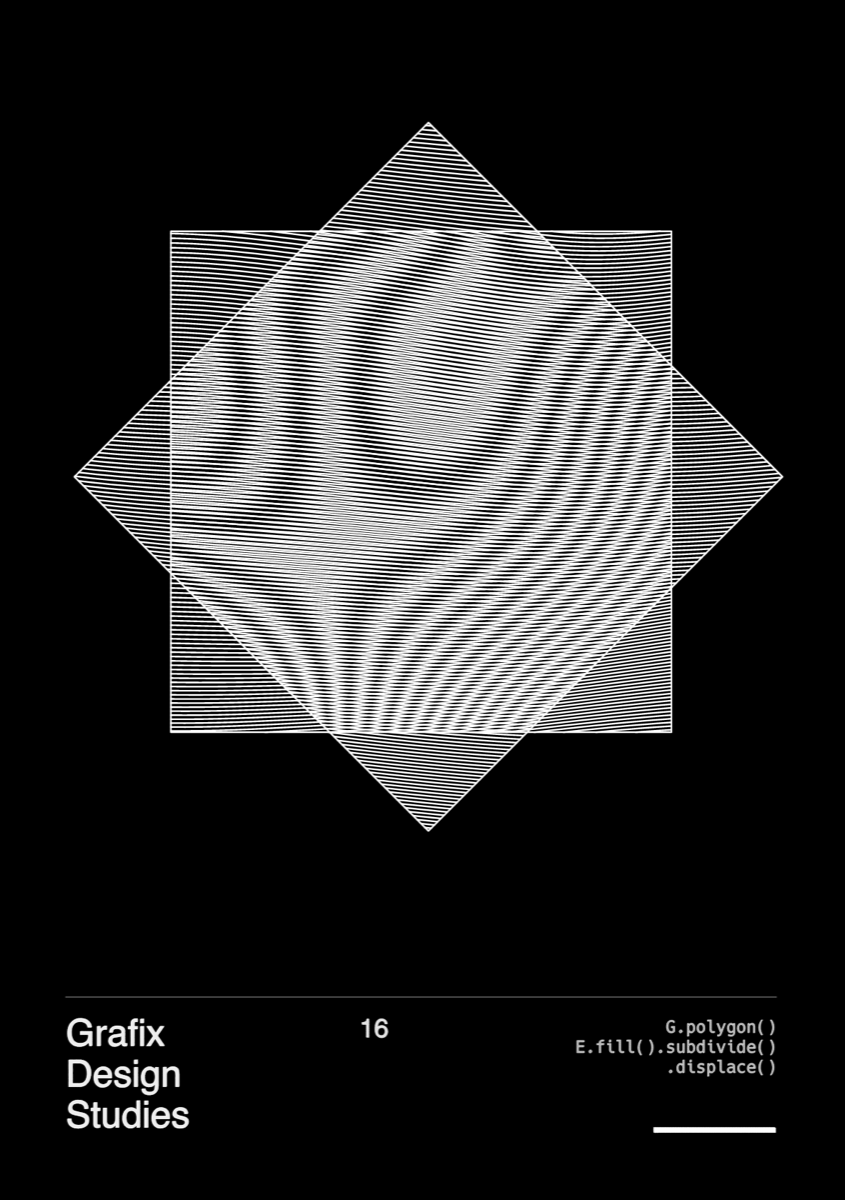
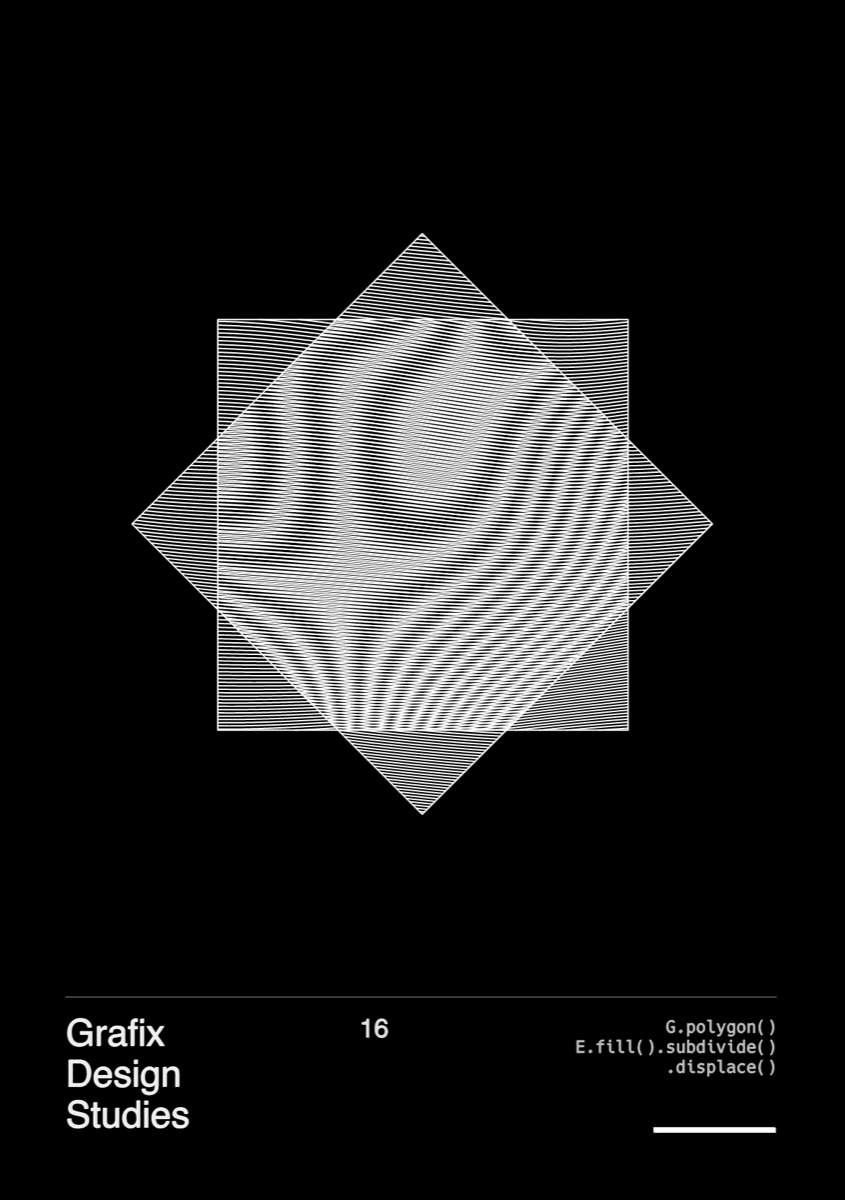
📝

Changed region(s): [[0.0923, 0.0925, 0.9231, 0.7092]]

diff --git a/sketch/readme/grn/16.py b/sketch/readme/grn/16.py
@@ -12,8 +12,8 @@ def draw(t):
     frame = P.grn_a5_frame(number_text=str(Path(__file__).stem))
     f1 = P.flow(
         activate=True,
-        center=(24.8, 34.963, 0.0),
-        scale=(2.48, 2.48, 1.0),
+        center=(24.8, 42.308, 0.0),
+        scale=(2.033, 2.033, 1.0),
         fill_density_coef=0.811,
         fill_angle=0.0,
         subdivide_levels=6,
@@ -23,8 +23,8 @@ def draw(t):
 
     f2 = P.flow(
         activate=True,
-        center=(24.8, 34.963, 0.0),
-        scale=(2.48, 2.48, 1.0),
+        center=(23.626, 42.857, 0.0),
+        scale=(2.033, 2.033, 1.0),
         fill_density_coef=0.811,
         fill_angle=139.227,
         subdivide_levels=6,
